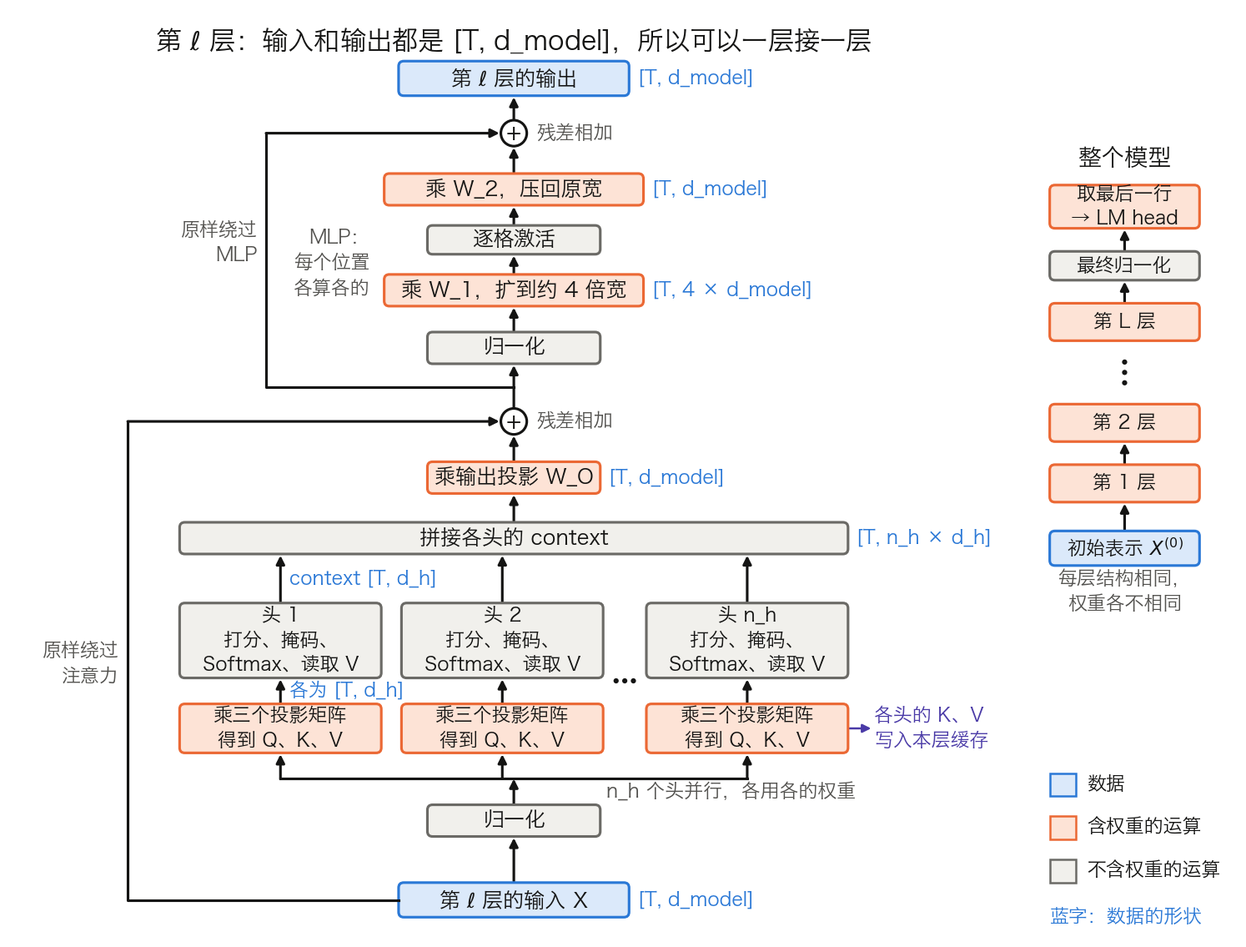
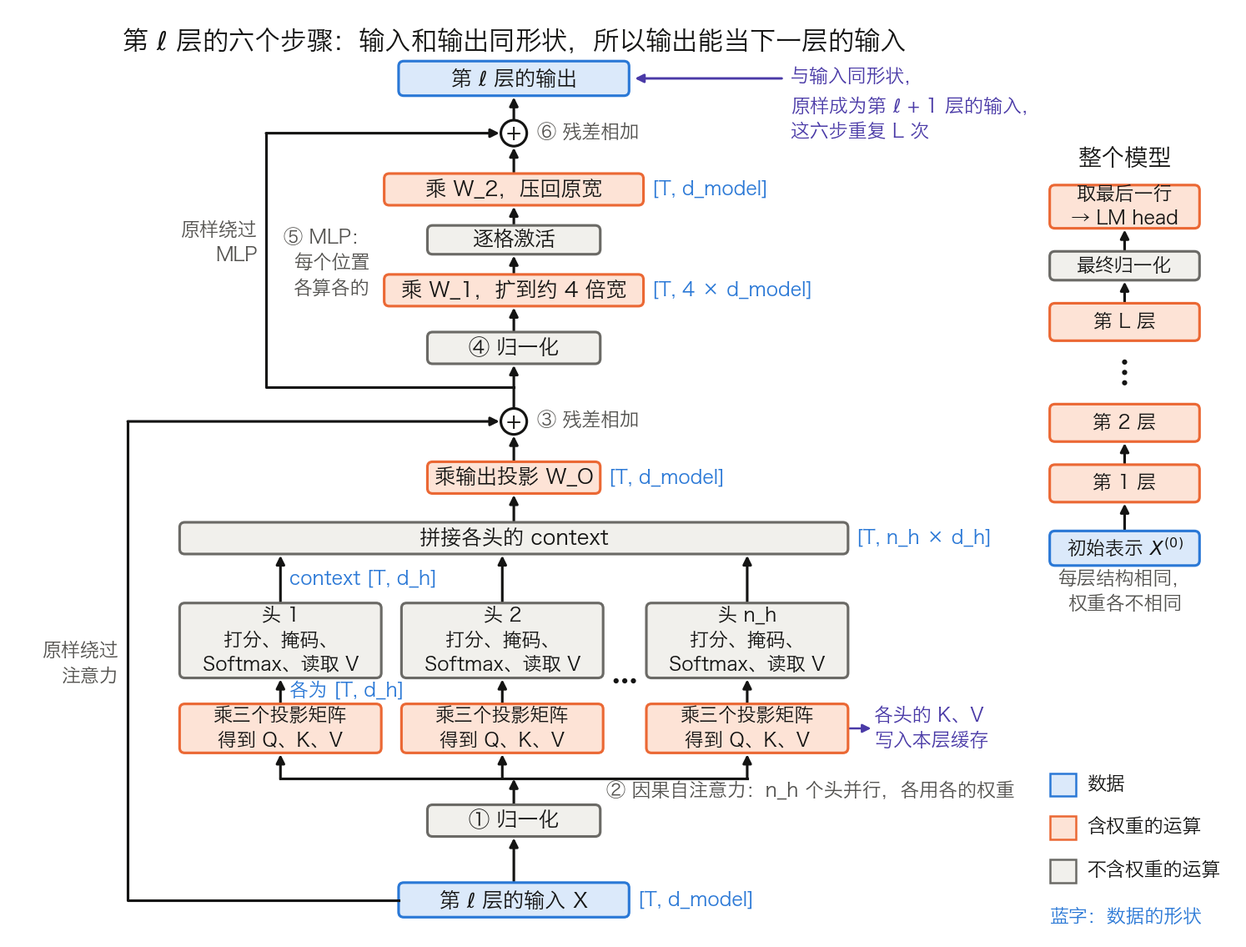
docs(llm): spell out the six steps of a layer in 3.8
The section said a layer does two things, read and process, and
mentioned residuals and normalisation only in passing; the shape list
omitted normalisation entirely because the teaching model sets it to
the identity. A reader finishing 3.8.3 and 3.8.4 never saw a layer's
steps in order.

Add table 3-16 listing the six steps with what each does and the fact
that none of them changes the shape, note that the output therefore
feeds the next layer unchanged and that the residual adds back rather
than replaces, restructure the shape list along the same six steps,
and number the steps in figure 3-14 to match.

diff --git a/tools/figures/transformer_layer_blocks.py b/tools/figures/transformer_layer_blocks.py
@@ -35,7 +35,7 @@ def main() -> None:
     use_cjk_font()
     fig, ax = plt.subplots(figsize=(12.6, 10.0))
 
-    label(ax, CX, 30.6, "第 $\ell$ 层：输入和输出都是 [T, d_model]，所以可以一层接一层",
+    label(ax, CX, 30.6, "第 $\ell$ 层的六个步骤：输入和输出同形状，所以输出能当下一层的输入",
           fontsize=FS_TITLE, bold=True)
 
     # 输入
@@ -44,7 +44,7 @@ def main() -> None:
     arrow(ax, (CX, 1.45), (CX, 2.95))
 
     # 归一化 1
-    box(ax, CX - 3, 3.0, 6, 1.1, "归一化", "neutral")
+    box(ax, CX - 3, 3.0, 6, 1.1, "① 归一化", "neutral")
     arrow(ax, (CX, 4.15), (CX, 5.0))
 
     # 分给各个头
@@ -68,7 +68,7 @@ def main() -> None:
     label(ax, heads_x[2] + HW + 0.9, 6.75, "各头的 K、V\n写入本层缓存", ha="left",
           fontsize=FS_SMALL, color=ACCENT)
     arrow(ax, (heads_x[2] + HW + 0.05, 6.75), (heads_x[2] + HW + 0.8, 6.75), color=ACCENT, lw=1.2)
-    label(ax, CX + 3.2, 4.55, "n_h 个头并行，各用各的权重", ha="left", fontsize=FS_SMALL,
+    label(ax, CX + 3.2, 4.55, "② 因果自注意力：n_h 个头并行，各用各的权重", ha="left", fontsize=FS_SMALL,
           color=MUTED)
 
     # 拼接
@@ -79,7 +79,7 @@ def main() -> None:
     shape(ax, CX + 3.3, 15.45, "[T, d_model]")
     arrow(ax, (CX, 16.05), (CX, 16.9))
     plus(ax, CX, 17.4)
-    label(ax, CX + 0.8, 17.4, "残差相加", ha="left", fontsize=FS_SMALL, color=MUTED)
+    label(ax, CX + 0.8, 17.4, "③ 残差相加", ha="left", fontsize=FS_SMALL, color=MUTED)
 
     # 残差旁路 1：从输入绕到第一个加号
     ax.plot([CX - 4, CX - 13.4, CX - 13.4], [0.8, 0.8, 17.4], color=INK, lw=1.5)
@@ -88,7 +88,7 @@ def main() -> None:
 
     # MLP 子层
     arrow(ax, (CX, 17.9), (CX, 19.35))
-    box(ax, CX - 3, 19.4, 6, 1.1, "归一化", "neutral")
+    box(ax, CX - 3, 19.4, 6, 1.1, "④ 归一化", "neutral")
     arrow(ax, (CX, 20.55), (CX, 21.35))
     box(ax, CX - 4.5, 21.4, 9, 1.1, "乘 W_1，扩到约 4 倍宽", "weight")
     shape(ax, CX + 4.8, 21.95, "[T, 4 × d_model]")
@@ -99,8 +99,8 @@ def main() -> None:
     shape(ax, CX + 4.8, 25.45, "[T, d_model]")
     arrow(ax, (CX, 26.05), (CX, 26.9))
     plus(ax, CX, 27.4)
-    label(ax, CX + 0.8, 27.4, "残差相加", ha="left", fontsize=FS_SMALL, color=MUTED)
-    label(ax, CX - 5.0, 22.9, "MLP：\n每个位置\n各算各的", ha="right", fontsize=FS_SMALL,
+    label(ax, CX + 0.8, 27.4, "⑥ 残差相加", ha="left", fontsize=FS_SMALL, color=MUTED)
+    label(ax, CX - 5.0, 22.9, "⑤ MLP：\n每个位置\n各算各的", ha="right", fontsize=FS_SMALL,
           color=MUTED)
 
     # 残差旁路 2
@@ -111,7 +111,10 @@ def main() -> None:
     # 输出
     arrow(ax, (CX, 27.9), (CX, 28.65))
     box(ax, CX - 4, 28.7, 8, 1.2, "第 $\ell$ 层的输出", "data", fontsize=FS_TEXT, bold=True)
-    shape(ax, CX + 4.3, 29.3, "[T, d_model]")
+    # 输出与输入同形状，原样成为下一层的输入
+    label(ax, CX + 9.6, 28.4, "与输入同形状，\n原样成为第 $\ell$ + 1 层的输入，\n这六步重复 L 次",
+          ha="left", fontsize=FS_SMALL, color=ACCENT)
+    arrow(ax, (CX + 9.3, 29.3), (CX + 4.2, 29.3), color=ACCENT, lw=1.4)
 
     # 右侧：重复 L 层，再进 LM head
     rx = CX + 18.6

diff --git a/11_serving/11.4_kv_memory_management.md b/11_serving/11.4_kv_memory_management.md
@@ -2,7 +2,7 @@
 
 [11.3 节](11.3_scheduler_loop.md)的调度器每一步都要问同一个问题：显存里还放得下多少词元的 K/V。本节回答这个数从哪里来，一个词元的 K/V 具体写到显存的哪个位置，以及放不下时被抢占序列的 K/V 怎么处置。[11.2 节](11.2_continuous_batching.md)只给了分页的想法，这里把它落到数据结构和账上；跨请求的前缀复用留给 [11.5 节](11.5_prefix_reuse.md)。
 
-算例沿用 [3.8.6](../03_components/3.8_gpt_inference_flow.md) 表 3-24 的 Llama 3 8B：`L = 32`、`d_model = 4096`、`n_kv = 8`、`d_h = 128`。BF16 每个数 2 字节，硬件是一张 80 GB 显存的 H100。容量用十进制 GB（10⁹ 字节），块的大小用 KiB、MiB（2¹⁰、2²⁰ 字节）。
+算例沿用 [3.8.6](../03_components/3.8_gpt_inference_flow.md) 表 3-25 的 Llama 3 8B：`L = 32`、`d_model = 4096`、`n_kv = 8`、`d_h = 128`。BF16 每个数 2 字节，硬件是一张 80 GB 显存的 H100。容量用十进制 GB（10⁹ 字节），块的大小用 KiB、MiB（2¹⁰、2²⁰ 字节）。
 
 ### 11.4.1 显存预算：KV 池有多大
 
@@ -33,7 +33,7 @@ $$
 | 每条序列 2,000 词元时的并发 | 205 | 51 |
 | 每条序列 8,000 词元时的并发 | 51 | 12 |
 
-表 11-11：53.94 GB 的 KV 池能同时容纳多少条序列。并发数按 16 个词元一块的整块计（11.4.3），每条序列占 125 块或 500 块：GQA 一列共 25,720 块，MHA 一列共 6,430 块。MHA 一列只把 `n_kv` 改回 32，注意力一侧与 GPT-3 6.7B 相同（表 3-24）；权重与池的大小仍按 Llama 3 8B。
+表 11-11：53.94 GB 的 KV 池能同时容纳多少条序列。并发数按 16 个词元一块的整块计（11.4.3），每条序列占 125 块或 500 块：GQA 一列共 25,720 块，MHA 一列共 6,430 块。MHA 一列只把 `n_kv` 改回 32，注意力一侧与 GPT-3 6.7B 相同（表 3-25）；权重与池的大小仍按 Llama 3 8B。
 
 从这张表读出两点。第一，KV 池的单位是词元，不是请求：并发数等于池容量除以平均驻留长度，请求越长，能同时服务的越少。第二，凡是缩小权重或每词元 KV 的手段，收益都能用这条公式换算。权重改用 FP8 省下 8.03 GB，池里多出约 61,300 个词元；GQA 把每词元 KV 缩到四分之一，并发直接变成 4 倍。
 
@@ -153,7 +153,7 @@ $$
 从持平带宽的表达式 `m × F × η ÷ P` 可以读出谁更划算取决于什么。
 
 - **每词元 KV。** `m` 越小，换出越划算。GQA 把 `m` 缩到四分之一，Llama 3 8B 的 `P` 又略大（6.98 × 10⁹ 对 6.44 × 10⁹）。持平带宽因此从 40.3 GB/s 降到 9.3 GB/s，低于 Gen4 和 Gen5 的 x16 标称带宽。MHA 模型则相反：GPT-3 6.7B 的形状在 Gen4 上是重算更快，在 Gen5 上才轮到换出。
-- **模型规模。** 模型越大，换出越划算。Llama 3 70B（配置见表 3-24）的矩阵参数是 6.85 × 10¹⁰，为 8B 的 9.8 倍；每词元 KV 是 `2 × 8 × 128 × 80 × 2 B = 320 KiB`，只是 2.5 倍。持平带宽降到约 2.4 GB/s。70B 要多卡张量并行才放得下，算力与 PCIe 链路数同比增加，比值不变。
+- **模型规模。** 模型越大，换出越划算。Llama 3 70B（配置见表 3-25）的矩阵参数是 6.85 × 10¹⁰，为 8B 的 9.8 倍；每词元 KV 是 `2 × 8 × 128 × 80 × 2 B = 320 KiB`，只是 2.5 倍。持平带宽降到约 2.4 GB/s。70B 要多卡张量并行才放得下，算力与 PCIe 链路数同比增加，比值不变。
 - **序列长度。** 序列越长，重算越吃亏。重算含 `T²` 项，`T = 32,000` 时注意力项已占重算计算量的 37.5%；换出与长度成正比。
 
 按标称数字，换出对当前的 GQA 模型全面占优，vLLM 却默认重算。它的[优化文档](https://docs.vllm.ai/en/v0.29.0/configuration/optimization.html)写明默认的抢占方式是重算，[V1 说明](https://docs.vllm.ai/en/v0.29.0/usage/v1_guide.html)把 GPU 与 CPU 之间的 KV 换出列为已移除的功能。原因在公式之外：

diff --git a/02_attention/2.1_qkv_intuition.md b/02_attention/2.1_qkv_intuition.md
@@ -58,7 +58,7 @@ $$s_{ij} = (x_i W^Q)(x_j W^K)^\top = x_i \underbrace{W^Q (W^K)^\top}_{d_{\text{m
 
 分数是关于 $$x_i$$ 与 $$x_j$$ 的**双线性型**（bilinear form），中间那个矩阵才是真正被学到的东西。它有两个性质。
 
-其一，秩不超过 $$d_k$$。乘积 $$W^Q (W^K)^\top$$ 由 `[d_model, d_k] × [d_k, d_model]` 得到，中间那一维是瓶颈。以 GPT-3 6.7B 的配置（`d_model = 4096`、`d_k = 128`，见 [3.8.6 节](../03_components/3.8_gpt_inference_flow.md)的表 3-24）为例，它是一个 `4096 × 4096` 的矩阵，秩至多 128。单头能表达的打分方式因此受限，这一点在 [2.3.5 节](2.3_multi_head.md)还要用来解释头宽度的取值。
+其一，秩不超过 $$d_k$$。乘积 $$W^Q (W^K)^\top$$ 由 `[d_model, d_k] × [d_k, d_model]` 得到，中间那一维是瓶颈。以 GPT-3 6.7B 的配置（`d_model = 4096`、`d_k = 128`，见 [3.8.6 节](../03_components/3.8_gpt_inference_flow.md)的表 3-25）为例，它是一个 `4096 × 4096` 的矩阵，秩至多 128。单头能表达的打分方式因此受限，这一点在 [2.3.5 节](2.3_multi_head.md)还要用来解释头宽度的取值。
 
 其二，单个 Q/K 维度没有固定含义。对任意可逆矩阵 $$R$$，把 $$W^Q$$ 换成 $$W^Q R$$、把 $$W^K$$ 换成 $$W^K (R^{-1})^\top$$，乘积不变，分数也不变。因此“第 3 个 Query 维度代表什么”这类问题没有答案，能被解释的是乘积。
 
@@ -85,7 +85,7 @@ $$s_{ij} = (x_i W^Q)(x_j W^K)^\top = x_i \underbrace{W^Q (W^K)^\top}_{d_{\text{m
 
 形状上只有一条硬约束：查询与键必须同维，因为两者要做点积；值的维度 $$d_v$$ 在数学上可以不同，输出 $$AV \in \mathbb{R}^{n \times d_v}$$ 照样成立。实践中取 $$d_k = d_v$$，便于拼接后由 $$W^O$$ 投回 $$d_{\text{model}}$$。
 
-**记号。** 下面的参数账起，多头相关的量按全书形状清单的写法记：$$n_h$$ 是 Query 头数，$$d_h$$ 是每头宽度，$$n_{kv}$$ 是 K/V 头数，`T` 是词元数。标准多头注意力中 $$n_{kv} = n_h$$，GQA 下 $$n_{kv}$$ 更小（见 [2.3.7 节](2.3_multi_head.md)）。本章的数学推导则沿用原论文的写法，序列长度记作 $$n$$、每头宽度记作 $$d_k$$，值的一侧记作 $$d_v$$。两套写法指同一批量：$$n$$ 即 `T`，按上面 $$d_k = d_v$$ 的常规取法，两者即 $$d_h$$。汇总见 [3.8.3 节](../03_components/3.8_gpt_inference_flow.md)的表 3-17。
+**记号。** 下面的参数账起，多头相关的量按全书形状清单的写法记：$$n_h$$ 是 Query 头数，$$d_h$$ 是每头宽度，$$n_{kv}$$ 是 K/V 头数，`T` 是词元数。标准多头注意力中 $$n_{kv} = n_h$$，GQA 下 $$n_{kv}$$ 更小（见 [2.3.7 节](2.3_multi_head.md)）。本章的数学推导则沿用原论文的写法，序列长度记作 $$n$$、每头宽度记作 $$d_k$$，值的一侧记作 $$d_v$$。两套写法指同一批量：$$n$$ 即 `T`，按上面 $$d_k = d_v$$ 的常规取法，两者即 $$d_h$$。汇总见 [3.8.3 节](../03_components/3.8_gpt_inference_flow.md)的表 3-18。
 
 **参数账。** 一层注意力有四个矩阵：$$W^Q$$、$$W^K$$、$$W^V$$ 各把 $$d_{\text{model}}$$ 投到 $$n_h \times d_h = d_{\text{model}}$$，$$W^O$$ 再投回来。不计偏置，一层共 $$4d_{\text{model}}^2$$ 个参数，与头数无关。以 GPT-3 6.7B（`d_model = 4096`、32 层、MLP 中间层 16,384）为例：
 

diff --git a/11_serving/11.10_vllm_internals.md b/11_serving/11.10_vllm_internals.md
@@ -2,7 +2,7 @@
 
 11.2 到 11.9 节逐个讲了机制：调度循环、KV 块、前缀复用、多 LoRA、约束解码、多卡并行、分离式部署。本节把它们对到一个真实引擎上，回答三个问题。一个请求从 HTTP 接口到吐出词元要经过哪些组件；每种机制落在哪个模块、哪个数据结构里；启动参数各自调的是哪一个机制。机制本身不再重讲，只给出处。
 
-文中的模块名、参数名和默认值均取自 vLLM v0.29.0（标签对应提交 `98dff2a`）的[源码](https://github.com/vllm-project/vllm/tree/v0.29.0)，指的是其 V1 引擎，即 `vllm/v1/` 目录。vLLM 内部结构变动很快，换一个版本，名字和默认值都可能不同；数据流和取舍则稳定得多，读别的版本时按职责去找对应物即可。算例沿用 [3.8.6](../03_components/3.8_gpt_inference_flow.md) 表 3-24 的 Llama 3 8B：32 层、`d_model = 4,096`、`n_kv = 8`、`d_h = 128`，权重与 KV 缓存均为 BF16。硬件取一张 H100，显存总量按 80 GiB 计，启动参数只加 `--max-model-len 32768`。
+文中的模块名、参数名和默认值均取自 vLLM v0.29.0（标签对应提交 `98dff2a`）的[源码](https://github.com/vllm-project/vllm/tree/v0.29.0)，指的是其 V1 引擎，即 `vllm/v1/` 目录。vLLM 内部结构变动很快，换一个版本，名字和默认值都可能不同；数据流和取舍则稳定得多，读别的版本时按职责去找对应物即可。算例沿用 [3.8.6](../03_components/3.8_gpt_inference_flow.md) 表 3-25 的 Llama 3 8B：32 层、`d_model = 4,096`、`n_kv = 8`、`d_h = 128`，权重与 KV 缓存均为 BF16。硬件取一张 H100，显存总量按 80 GiB 计，启动参数只加 `--max-model-len 32768`。
 
 ### 11.10.1 三类进程：一个请求经过哪里
 
@@ -136,7 +136,7 @@ $$
 
 Prefill 尚未完成的请求也占 logits 的一行，采样计数记 0，结果不记入请求，这样批内不必分支。从调度器看，这就是 11.3.2 第 6 步的“不采样”。
 
-**CUDA Graph 解决什么。** Decode 一步的 GPU 计算量很小（3.8.7 表 3-26：GPT-3 Small 每读 1 字节只做约 1 次运算）。一次前向仍要 CPU 逐层逐个发射内核，小批时发射开销占比很高。**CUDA Graph** 把一次前向的内核序列连同参数和显存地址录下来，之后一次调用整体回放，CPU 开销近乎常数。前提是形状和地址固定，由此带来两个做法：
+**CUDA Graph 解决什么。** Decode 一步的 GPU 计算量很小（3.8.7 表 3-27：GPT-3 Small 每读 1 字节只做约 1 次运算）。一次前向仍要 CPU 逐层逐个发射内核，小批时发射开销占比很高。**CUDA Graph** 把一次前向的内核序列连同参数和显存地址录下来，之后一次调用整体回放，CPU 开销近乎常数。前提是形状和地址固定，由此带来两个做法：
 
 - 输入写进预分配的静态缓冲区，多余位置填占位值。上面的 `input_ids`、`slot_mapping` 都是这种缓冲区。
 - 只为有限个批大小各录一张图，实际的批向上取到最近的已录尺寸，填充的行白算。

diff --git a/02_attention/2.3_multi_head.md b/02_attention/2.3_multi_head.md
@@ -32,7 +32,7 @@ $$\text{head}_i = \text{Attention}(QW_i^Q, KW_i^K, VW_i^V)$$
 
 - **一次投影**：`X[T, d_model] × W_Q[d_model, n_h × d_h] → Q[T, n_h × d_h]`。所谓“第 $$i$$ 个头的 $$W_i^Q$$”，就是这个大矩阵的第 $$i$$ 段列。
 - **第一次变形**：`view` 成 `[T, n_h, d_h]`，把最后一维按头切开。这一步只改变下标的解释方式，不搬数据。
-- **第二次变形**：`transpose` 成 `[n_h, T, d_h]`，把头提到前面，使每个头拿到一个连续的 `[T, d_h]`。实际实现还带着 batch 维，即 `[B, n_h, T, d_h]`（见 3.8.6 的表 3-25）。
+- **第二次变形**：`transpose` 成 `[n_h, T, d_h]`，把头提到前面，使每个头拿到一个连续的 `[T, d_h]`。实际实现还带着 batch 维，即 `[B, n_h, T, d_h]`（见 3.8.6 的表 3-26）。
 - **拼回去**：各头算出 `[T, d_h]` 的 context，`transpose` 回来再 `reshape` 成 `[T, n_h × d_h]`，最后 `× W_O[n_h × d_h, d_model]`。
 
 取 `d_model = 4`、`n_h = 2`、`d_h = 2`，切分与拼接的下标是：投影结果每一行有 4 个数，第 1、2 个数归头 1，第 3、4 个数归头 2；头 1 交出的 2 个数写回第 1、2 位，头 2 的写回第 3、4 位。完整的两头数值手算见 [3.8.4 节](../03_components/3.8_gpt_inference_flow.md)，本节不重复。
@@ -81,7 +81,7 @@ $$W^O$$ 不是可有可无的收尾。拼接只是把数字排在一起，前 $$
 
 **为什么每头不能太窄，有理论依据。** 单头的分数矩阵 $$QK^\top$$ 由 `[n, d_k] × [d_k, n]` 得到，秩不超过 $$d_k$$。当 $$d_k < n$$ 时，这个头无法表达任意的 `n × n` 注意力模式。[对低秩瓶颈的分析](https://arxiv.org/abs/2002.07028)据此论证：把每头宽度压到低于输入序列长度，会限制单个头的表示能力，并提出把头宽度直接设为序列长度、与头数解耦。这为“先定每头宽度、再反推头数”提供了论据，也解释了 2.1.3 中那个秩不超过 $$d_k$$ 的双线性矩阵为什么重要。
 
-实践中的做法正是先定宽度：把 $$d_h$$ 固定在 64 到 128，再由 $$n_h = d_{\text{model}} / d_h$$ 反推。GPT-3 Small 是 `768 / 64 = 12` 个头，GPT-3 175B 是 `12288 / 128 = 96` 个头，Llama 3 8B 是 `4096 / 128 = 32` 个头（见 3.8.6 的表 3-24）。模型变大，主要是头数和层数一起增加，每头宽度几乎不动。少数模型单独设定 `head_dim`，此时 $$n_h \times d_h \neq d_{\text{model}}$$，由 $$W^O$$ 投回（例子见 [2.1.5 节](2.1_qkv_intuition.md)）。
+实践中的做法正是先定宽度：把 $$d_h$$ 固定在 64 到 128，再由 $$n_h = d_{\text{model}} / d_h$$ 反推。GPT-3 Small 是 `768 / 64 = 12` 个头，GPT-3 175B 是 `12288 / 128 = 96` 个头，Llama 3 8B 是 `4096 / 128 = 32` 个头（见 3.8.6 的表 3-25）。模型变大，主要是头数和层数一起增加，每头宽度几乎不动。少数模型单独设定 `head_dim`，此时 $$n_h \times d_h \neq d_{\text{model}}$$，由 $$W^O$$ 投回（例子见 [2.1.5 节](2.1_qkv_intuition.md)）。
 
 ### 2.3.6 头并不都有用
 

diff --git a/11_serving/11.3_scheduler_loop.md b/11_serving/11.3_scheduler_loop.md
@@ -2,7 +2,7 @@
 
 [11.2 节](11.2_continuous_batching.md)给出了四个想法：迭代级调度、KV 缓存分页、前缀缓存、分块 Prefill。前缀缓存留给 [11.5 节](11.5_prefix_reuse.md)，其余三个都靠同一个部件落地：**调度器**（scheduler）。它在每次前向之前决定哪些请求参加、各算几个词元。本节回答四个问题：一个请求经过哪些状态；每一步调度器按什么顺序做决定；显存不够时牺牲谁、怎样恢复；到达率、批大小与延迟之间是什么数量关系。
 
-算例沿用 [3.8.6](../03_components/3.8_gpt_inference_flow.md) 表 3-24 的 Llama 3 8B，权重与 KV 缓存按 BF16 存放；硬件取 [10.1 节](../10_inference_optimization/10.1_bottleneck.md)的 H100，稠密 BF16 峰值算力约 990 TFLOPs/s，显存带宽 3.35 TB/s。KV 块怎样分配与回收归 [11.4 节](11.4_kv_memory_management.md)，本节只把 KV 空间当作一个按词元计数的池子。
+算例沿用 [3.8.6](../03_components/3.8_gpt_inference_flow.md) 表 3-25 的 Llama 3 8B，权重与 KV 缓存按 BF16 存放；硬件取 [10.1 节](../10_inference_optimization/10.1_bottleneck.md)的 H100，稠密 BF16 峰值算力约 990 TFLOPs/s，显存带宽 3.35 TB/s。KV 块怎样分配与回收归 [11.4 节](11.4_kv_memory_management.md)，本节只把 KV 空间当作一个按词元计数的池子。
 
 ### 11.3.1 请求的四个状态
 
@@ -71,7 +71,7 @@ $$
 
 先备好 Llama 3 8B 的三个常量。
 
-- **权重字节**。一层的矩阵参数为 `4096 × 4096 × 2 + 4096 × 1024 × 2 + 3 × 4096 × 14336 = 218,103,808`。加上词嵌入、LM head 与归一化，共 `32 × 218,103,808 + 2 × 128,256 × 4096 + 65 × 4096 = 8,030,261,248` 个参数：词嵌入与 LM head 各一份、不共享，词表 128,256 行见 [3.8.3](../03_components/3.8_gpt_inference_flow.md) 表 3-16 的注（表格单元里的 128,000 是论文口径）；每层两个归一化加末尾一个，共 65 个，各 4,096 个参数。BF16 下 16.06 GB。读一遍要 `16.06 GB ÷ 3.35 TB/s = 4.79 ms`，记作 `a`。
+- **权重字节**。一层的矩阵参数为 `4096 × 4096 × 2 + 4096 × 1024 × 2 + 3 × 4096 × 14336 = 218,103,808`。加上词嵌入、LM head 与归一化，共 `32 × 218,103,808 + 2 × 128,256 × 4096 + 65 × 4096 = 8,030,261,248` 个参数：词嵌入与 LM head 各一份、不共享，词表 128,256 行见 [3.8.3](../03_components/3.8_gpt_inference_flow.md) 表 3-17 的注（表格单元里的 128,000 是论文口径）；每层两个归一化加末尾一个，共 65 个，各 4,096 个参数。BF16 下 16.06 GB。读一遍要 `16.06 GB ÷ 3.35 TB/s = 4.79 ms`，记作 `a`。
 - **每词元计算量**。Llama 的 MLP 有三个矩阵，3.8.7 的 `24d²` 不再适用，直接按“每个矩阵参数 2 次运算”计：`2 × 32 × 218,103,808 ≈ 1.396 × 10¹⁰` FLOPs，折合 `14.1 µs`。要采样的位置再加 LM head 的 `2 × 4096 × 128,256 ≈ 1.05 × 10⁹`。
 - **每词元 KV**。`2 × 8 × 128 × 32 = 65,536` 个数（见 3.8.7），BF16 下 131,072 字节，即 128 KiB。
 

diff --git a/12_encoder_models/12.3_longformer_bigbird.md b/12_encoder_models/12.3_longformer_bigbird.md
@@ -171,7 +171,7 @@ $$
 
 上下文窗口从 4K 涨到 128K 之后，长文本处理已经不是编码器的专属领地。但嵌入、重排、分类这类负载仍然以编码器为主，理由是经济性，可以直接算。
 
-**成本差距是多少。** 12.3.1 已经算过，BERT-Base 读 512 个词元一次前向是权重项 87.0 加注意力项 9.7，共 96.6 GFLOPs。Llama 3 8B 的前馈是 SwiGLU 三矩阵、注意力是 GQA，套不上 `24Td²` 那个式子，改按 `2 × 非嵌入参数 × 词元数` 算。按 [3.8.6 节](../03_components/3.8_gpt_inference_flow.md)表 3-24 的配置（32 层、`d_model` 4,096、8 组 K/V、中间层 14,336）逐项相加，每层是 `4096² + 2 × 4096 × 1024 + 4096² + 3 × 4096 × 14336 + 2 × 4096 = 218,112,000`。五项依次是 Q 投影、K 与 V 两个投影、输出投影、SwiGLU 的三个矩阵，以及两个 RMSNorm。32 层再加末尾的一个 RMSNorm，得 6,979,588,096 个非嵌入参数。读 512 个词元，权重项 `2 × 6,979,588,096 × 512 = 7,147` GFLOPs，因果掩码下注意力项 `2T²dL = 69` GFLOPs，合计约 7,216 GFLOPs，是前者的 75 倍。这类任务的共同特征是吞吐极高、单次输出极小：每天过上亿篇文档，每次只输出一个向量或一个分数。在这种负载下 75 倍是直接的账单差距，而质量差距远没有这么大。
+**成本差距是多少。** 12.3.1 已经算过，BERT-Base 读 512 个词元一次前向是权重项 87.0 加注意力项 9.7，共 96.6 GFLOPs。Llama 3 8B 的前馈是 SwiGLU 三矩阵、注意力是 GQA，套不上 `24Td²` 那个式子，改按 `2 × 非嵌入参数 × 词元数` 算。按 [3.8.6 节](../03_components/3.8_gpt_inference_flow.md)表 3-25 的配置（32 层、`d_model` 4,096、8 组 K/V、中间层 14,336）逐项相加，每层是 `4096² + 2 × 4096 × 1024 + 4096² + 3 × 4096 × 14336 + 2 × 4096 = 218,112,000`。五项依次是 Q 投影、K 与 V 两个投影、输出投影、SwiGLU 的三个矩阵，以及两个 RMSNorm。32 层再加末尾的一个 RMSNorm，得 6,979,588,096 个非嵌入参数。读 512 个词元，权重项 `2 × 6,979,588,096 × 512 = 7,147` GFLOPs，因果掩码下注意力项 `2T²dL = 69` GFLOPs，合计约 7,216 GFLOPs，是前者的 75 倍。这类任务的共同特征是吞吐极高、单次输出极小：每天过上亿篇文档，每次只输出一个向量或一个分数。在这种负载下 75 倍是直接的账单差距，而质量差距远没有这么大。
 
 **编码器的推理特性和解码器不一样。** 表 12-11 把差别列出来，可以与第 10、11 章的解码器服务对照。
 

diff --git a/11_serving/11.5_prefix_reuse.md b/11_serving/11.5_prefix_reuse.md
@@ -16,7 +16,7 @@
 
 采样参数不在条件里。温度、top-p、随机种子只作用于 logits 之后（见[第九章](../09_decoding/README.md)），不改变任何位置的 K/V。
 
-**命中之后算什么。** 设命中 P 个词元，剩下的后缀有 S 个词元，`T = P + S`。Prefill 只对后缀做，形状介于完整 Prefill 与 Decode 之间。以 Llama 3 8B（表 3-16：`d_model = 4096`，`d_h = 128`）的一个头为例：
+**命中之后算什么。** 设命中 P 个词元，剩下的后缀有 S 个词元，`T = P + S`。Prefill 只对后缀做，形状介于完整 Prefill 与 Decode 之间。以 Llama 3 8B（表 3-17：`d_model = 4096`，`d_h = 128`）的一个头为例：
 
 - 投影：`X[S, 4096] × W_Q[4096, 128] → Q[S, 128]`。K、V 同理，新算出的 S 行追加在缓存的 P 行之后。
 - 打分：`Q[S, 128] × Kᵀ[128, P + S] → 分数[S, P + S]`，K 的前 P 行读自缓存。
@@ -106,7 +106,7 @@ $$
 
 先算命中长度。`2010 ÷ 16 = 125` 余 10，前 125 块共 2,000 个词元命中。第 126 块里有 10 个共享词元和 6 个用户词元，键不同，未命中。于是 `P = 2000`，`S = 210`，命中率 `2000 ÷ 2210 = 90.5%`。前缀树按词元匹配，`P = 2010`，`S = 200`。
 
-再算计算量，口径同 [3.8.7 节](../03_components/3.8_gpt_inference_flow.md)：`[a, b] × [b, c]` 记 `2abc` 次。配置取 [3.8.3](../03_components/3.8_gpt_inference_flow.md) 表 3-16：`n_kv = 8`，MLP 中间层 14,336，32 层；词表取发布权重的 128,256 行，而不是表格单元里论文口径的 128,000（见该表的注）。Llama 3 8B 用 GQA 和三个矩阵的 SwiGLU，每层与权重相乘的部分不再是 `24d²`，要按实际形状重数。每个词元、每层：
+再算计算量，口径同 [3.8.7 节](../03_components/3.8_gpt_inference_flow.md)：`[a, b] × [b, c]` 记 `2abc` 次。配置取 [3.8.3](../03_components/3.8_gpt_inference_flow.md) 表 3-17：`n_kv = 8`，MLP 中间层 14,336，32 层；词表取发布权重的 128,256 行，而不是表格单元里论文口径的 128,000（见该表的注）。Llama 3 8B 用 GQA 和三个矩阵的 SwiGLU，每层与权重相乘的部分不再是 `24d²`，要按实际形状重数。每个词元、每层：
 
 - Q 投影与 `W_O`：`[1, 4096] × [4096, 4096]`，各 `2 × 4096 × 4096` 次。
 - K、V 投影：`[1, 4096] × [4096, 1024]`，各 `2 × 4096 × 1024` 次，其中 `1024 = 8 × 128`。

diff --git a/04_position_encoding/4.1_sinusoidal.md b/04_position_encoding/4.1_sinusoidal.md
@@ -124,7 +124,7 @@ $$(x_m + p_m)^T W_Q^T W_K (x_n + p_n)$$
 
 ### 4.1.6 外推的实际边界
 
-正弦函数对任意实数位置都有定义，因此训练长度之外的位置也能算出编码。能算出不等于算得对。本章用 $$L_{\text{train}}$$ 记训练长度，以区别于 [3.8 节](../03_components/3.8_gpt_inference_flow.md)表 3-17 中表示层数的 $$L$$，以及 [4.2 节](4.2_learnable.md)中表示位置表行数的 $$L_{\max}$$。ALiBi 论文做过直接测量：一个在 $$L_{\text{train}} = 512$$ 上训练的正弦编码模型，推理长度加到 $$L_{\text{train}} + k$$ 后，困惑度在 $$k = 20$$ 之前还在改善，$$k$$ 从 20 到 50 之间持平，此后开始变差；$$L_{\text{train}} = 1024$$ 的模型同样在 $$L_{\text{train}} + 50$$ 之后下滑。也就是说，可用的外推余量是几十个词元量级，不是成倍。
+正弦函数对任意实数位置都有定义，因此训练长度之外的位置也能算出编码。能算出不等于算得对。本章用 $$L_{\text{train}}$$ 记训练长度，以区别于 [3.8 节](../03_components/3.8_gpt_inference_flow.md)表 3-18 中表示层数的 $$L$$，以及 [4.2 节](4.2_learnable.md)中表示位置表行数的 $$L_{\max}$$。ALiBi 论文做过直接测量：一个在 $$L_{\text{train}} = 512$$ 上训练的正弦编码模型，推理长度加到 $$L_{\text{train}} + k$$ 后，困惑度在 $$k = 20$$ 之前还在改善，$$k$$ 从 20 到 50 之间持平，此后开始变差；$$L_{\text{train}} = 1024$$ 的模型同样在 $$L_{\text{train}} + 50$$ 之后下滑。也就是说，可用的外推余量是几十个词元量级，不是成倍。
 
 原因可以从波长看出来。以原始 Transformer 的 $$d_{\text{model}} = 512$$ 为例，256 对频率里只有 123 对的波长不超过 512，其余 133 对在整个训练长度内都没转满一圈。最低频那一对的波长是 60,611，在位置 512 处才转过 3.04 度。上面被测的基线其实宽 1,024。它的 512 对频率里波长不超过 512 的有 245 对，占比同样是 48%；最低频那一对波长 61,712，在位置 512 处转过 2.99 度。对数不同，机制一样。这些维度取到的值，在训练中只覆盖了整个圆周上很短的一段弧；超出训练长度后，它们给出的取值组合模型从未见过，相当于外插到分布之外。4.3.4 会看到，同样的机制在 RoPE 上原样重演。
 

diff --git a/11_serving/11.6_multi_lora_serving.md b/11_serving/11.6_multi_lora_serving.md
@@ -2,7 +2,7 @@
 
 11.2 到 11.5 都默认一台引擎只服务一个模型。微调打破了这个前提：同一个基座按租户、任务、语言各训练一个 LoRA 适配器（adapter），上线时面对的是几十到几千个“模型”，其中多数流量稀疏。本节回答三个问题：这些适配器为什么不能像单模型部署那样合并进权重；不合并时每层多算什么，同一批里的不同适配器怎样一起算；适配器本身的显存怎样管理。LoRA 的原理见 [8.4 节](../08_alignment/8.4_peft.md)，这里只用它的形状。
 
-算例沿用 [3.8.6](../03_components/3.8_gpt_inference_flow.md) 表 3-24 的 Llama 3 8B（`d_model = 4096`，32 层，`n_kv = 8`，MLP 中间层 14,336），FP16 每个数 2 字节，一次 `[a, b] × [b, c]` 的矩阵乘记 `2abc` 次浮点运算。基座共 8,030,261,248 个参数，FP16 下 16.06 GB，推导见 [11.4.1](11.4_kv_memory_management.md)；词表按发布权重的 128,256 行计。
+算例沿用 [3.8.6](../03_components/3.8_gpt_inference_flow.md) 表 3-25 的 Llama 3 8B（`d_model = 4096`，32 层，`n_kv = 8`，MLP 中间层 14,336），FP16 每个数 2 字节，一次 `[a, b] × [b, c]` 的矩阵乘记 `2abc` 次浮点运算。基座共 8,030,261,248 个参数，FP16 下 16.06 GB，推导见 [11.4.1](11.4_kv_memory_management.md)；词表按发布权重的 128,256 行计。
 
 ### 11.6.1 适配器有多大，为什么不能合并
 
@@ -24,7 +24,7 @@ $$
 | `W_down` | `[14336, 4096]` | 18,432 | 117,440,512 | 589,824 | 0.50% |
 | 一层合计（七个） | 218,103,808 个数 | 81,920 | 436,207,616 | 2,621,440 | 0.60% |
 
-表 11-18：Llama 3 8B 一层七个线性投影上的 LoRA 开销。`W_Q` 等是各头打包后的形状（见 3.8.6 的表 3-25）；FLOPs 两列在 11.6.2 用到。
+表 11-18：Llama 3 8B 一层七个线性投影上的 LoRA 开销。`W_Q` 等是各头打包后的形状（见 3.8.6 的表 3-26）；FLOPs 两列在 11.6.2 用到。
 
 七个投影的 `d_in + d_out` 之和是 `2 × 8,192 + 2 × 5,120 + 3 × 18,432 = 81,920`。取 `r = 16` 并覆盖全部七个投影，一层是 `16 × 81,920 = 1,310,720` 个数，32 层共 41,943,040 个，FP16 下 83.9 MB，是基座 80.3 亿参数的 0.52%。同一口径下 `r = 8` 是 41.9 MB，`r = 64` 是 335.5 MB；只加在 `W_Q`、`W_V` 上的 `r = 16` 适配器只有 13.6 MB。
 

diff --git a/06_training_techniques/6.3_regularization.md b/06_training_techniques/6.3_regularization.md
@@ -124,7 +124,7 @@ optimizer.step()
 
 ### 6.3.6 注意力 logits 的动态约束：QK-Norm、z-loss 与 logit soft-cap
 
-[2.2 节](../02_attention/2.2_scaled_dot_product.md)已经解释了为什么点积要除以 $$\sqrt{d_h}$$（$$d_h$$ 是每头宽度，第 2 章记作 $$d_k$$，本节沿用 [3.8 节](../03_components/3.8_gpt_inference_flow.md)表 3-17 的记法）：当 $$q$$ 与 $$k$$ 的分量独立同分布于 $$\mathcal{N}(0,1)$$ 时，点积方差等于 $$d_h$$，除以 $$\sqrt{d_h}$$ 把它拉回 1，Softmax 因而落在梯度活跃区。但这个论证有一个容易被忽略的前提：**那个分布假设只在初始化时刻成立**。训练一旦开始，$$W_Q$$ 与 $$W_K$$ 的范数会持续增长，而 $$\sqrt{d_h}$$ 是个常数，它不会跟着一起长。于是 attention logits 可以在训练中途重新爆炸，缩放因子对此无能为力——**$$\sqrt{d_h}$$ 是静态修正，管不住动态漂移**。
+[2.2 节](../02_attention/2.2_scaled_dot_product.md)已经解释了为什么点积要除以 $$\sqrt{d_h}$$（$$d_h$$ 是每头宽度，第 2 章记作 $$d_k$$，本节沿用 [3.8 节](../03_components/3.8_gpt_inference_flow.md)表 3-18 的记法）：当 $$q$$ 与 $$k$$ 的分量独立同分布于 $$\mathcal{N}(0,1)$$ 时，点积方差等于 $$d_h$$，除以 $$\sqrt{d_h}$$ 把它拉回 1，Softmax 因而落在梯度活跃区。但这个论证有一个容易被忽略的前提：**那个分布假设只在初始化时刻成立**。训练一旦开始，$$W_Q$$ 与 $$W_K$$ 的范数会持续增长，而 $$\sqrt{d_h}$$ 是个常数，它不会跟着一起长。于是 attention logits 可以在训练中途重新爆炸，缩放因子对此无能为力——**$$\sqrt{d_h}$$ 是静态修正，管不住动态漂移**。
 
 这不是理论担忧。Google 把 ViT 扩到 220 亿参数时观察到：约 80 亿参数规模上训练损失会在几千步后发散，[原因是 attention logits 出现极大值](https://arxiv.org/abs/2302.05442)，导致注意力权重几乎变成 one-hot、熵接近零；论文附录给出的量级是——不加归一化时，attention logits 会迅速涨到 **50000 以上**。熵接近零意味着每个查询只盯住一个键，梯度几乎不再流向其他位置，模型实际上失去了继续学习注意力分布的能力。
 
